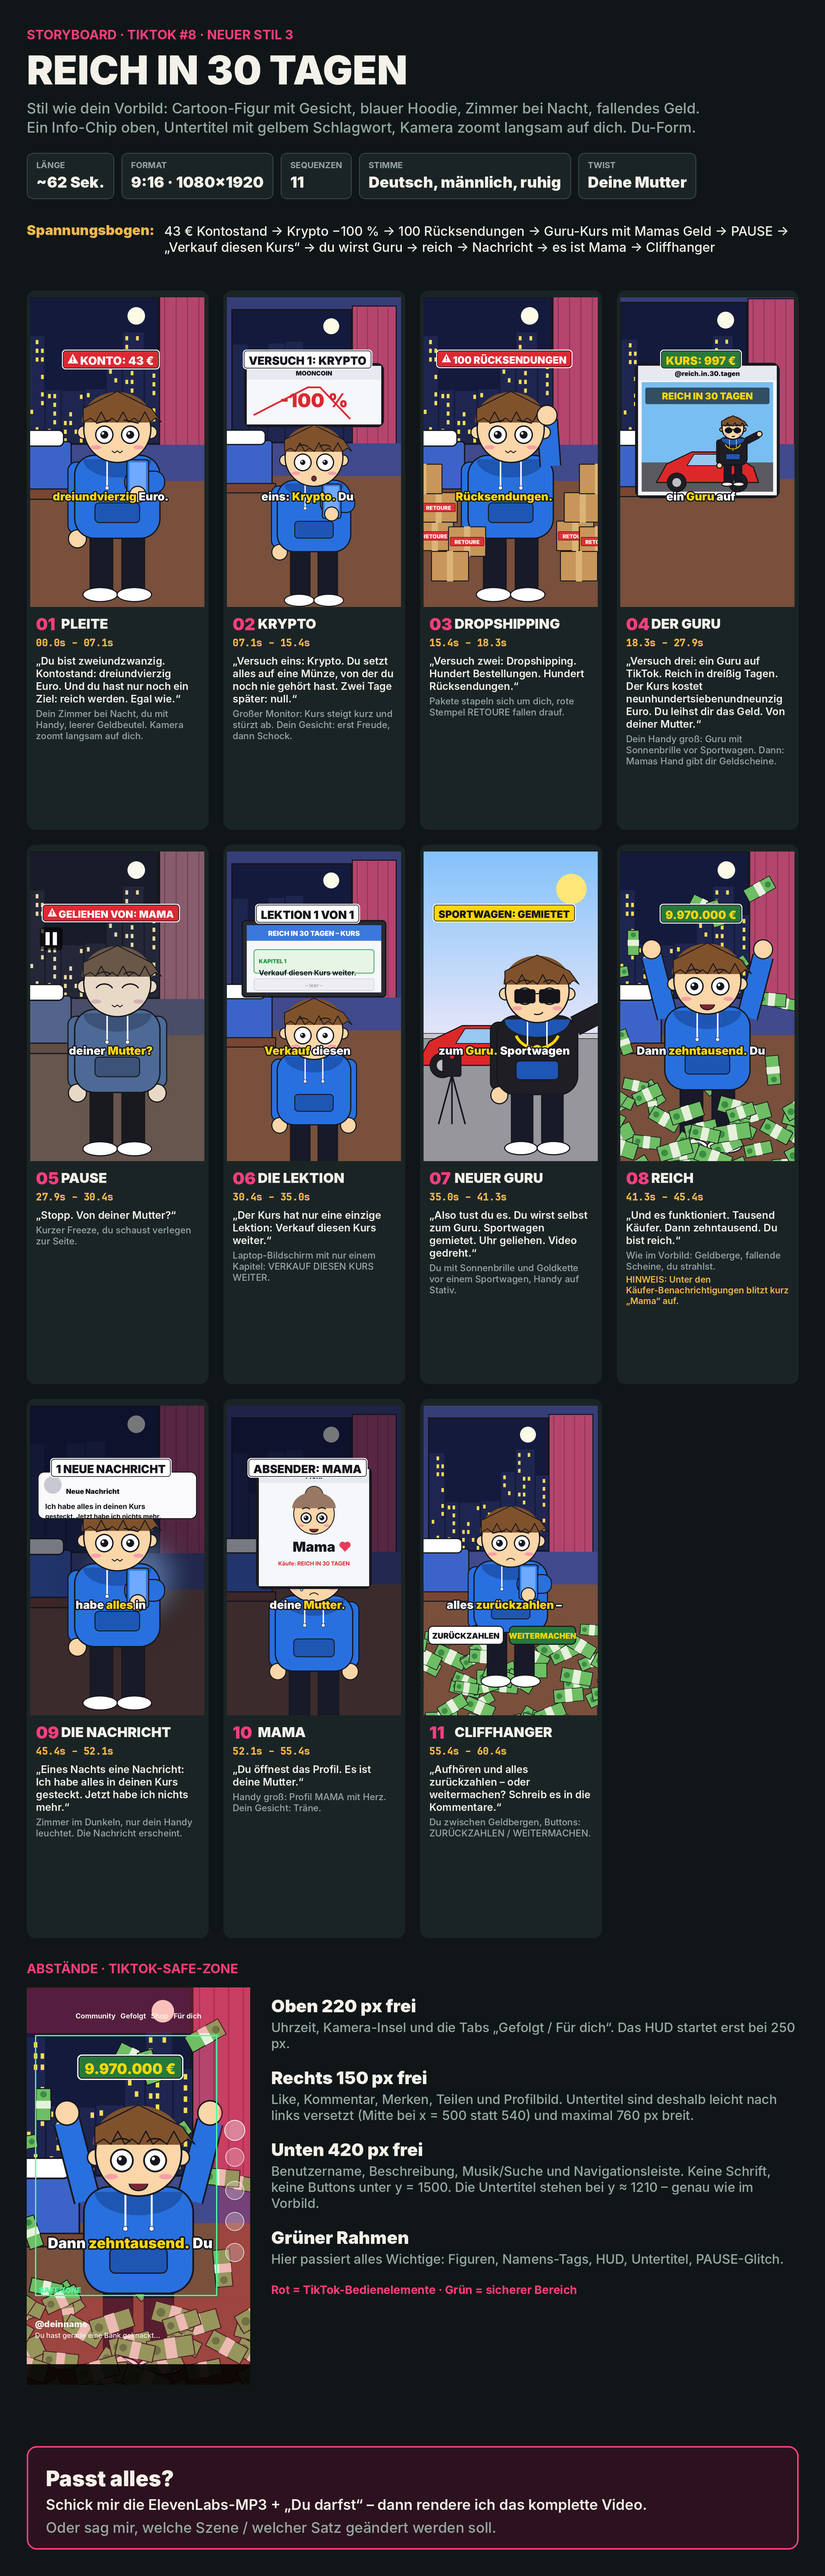
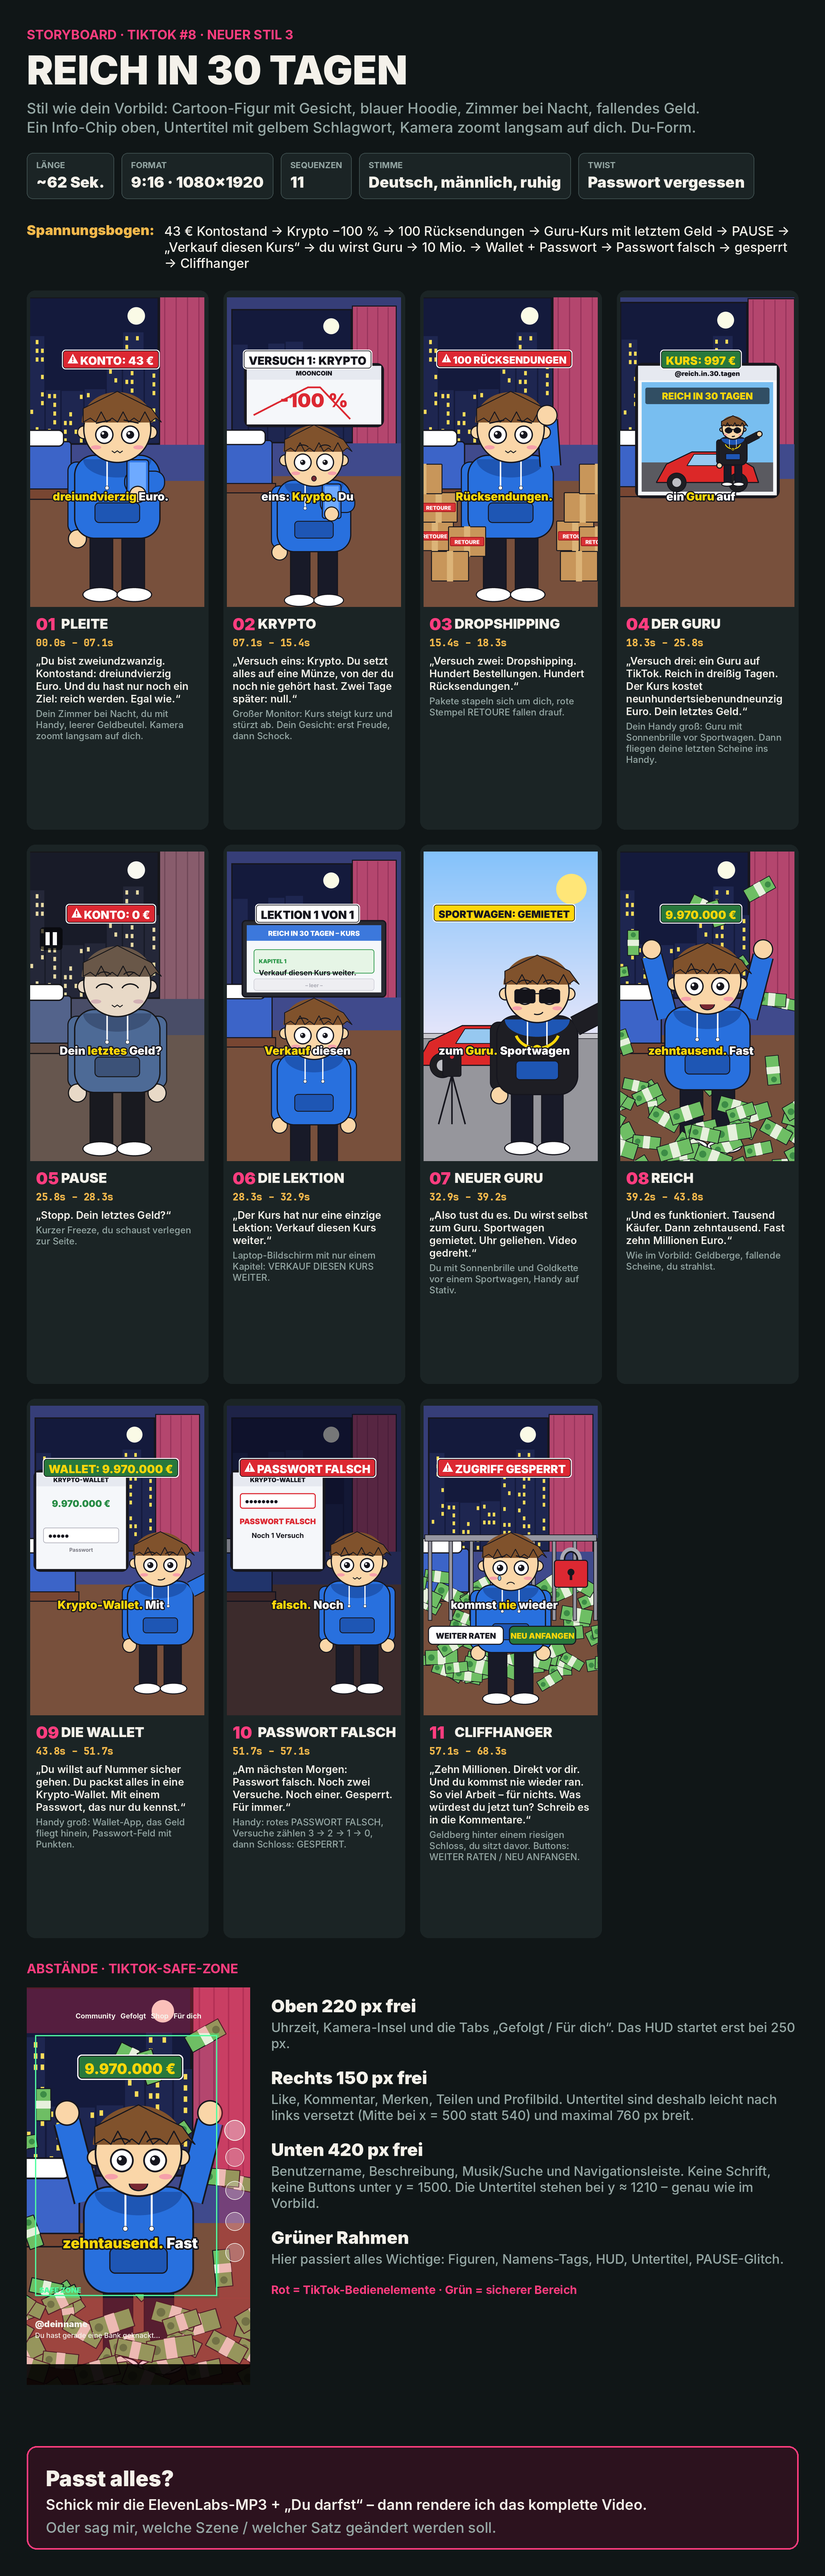
Reich in 30 Tagen: new ending (forgotten wallet password) instead of mother
Claude-Session: https://claude.ai/code/session_01H8VbNop1cYbodEqih19cnK

diff --git a/tiktok/reich/scenes8.py b/tiktok/reich/scenes8.py
@@ -25,13 +25,6 @@ def phone_ui(cv, x0, y0, x1, y1, title=None):
         cv.text(((x0 + x1) / 2, y0 + 56), title, font(36, "Black"), INK, "ms")
 
 
-def mom_avatar(cv, x, y, r):
-    cv.circle(x, y - r * 0.9, r * 0.45, (150, 120, 100), INK, 4)  # bun
-    cv.circle(x, y, r, SKIN, INK, 5)
-    cv.d.chord(cv.s((x - r * 1.05, y - r * 1.05, x + r * 1.05, y + r * 0.5)), 180, 360, fill=(150, 120, 100))
-    T.face(cv, x, y + r * 0.15, r, "happy")
-
-
 def box(cv, x, y, w, h, stamp=False):
     cv.rect((x, y, x + w, y + h), (200, 150, 90), INK, 5, r=6)
     cv.rect((x + w * 0.42, y, x + w * 0.58, y + h), (220, 180, 120))
@@ -98,13 +91,12 @@ def s_guru(cv, t, dur):
         cv.rect((200, 590, 880, 680), (0, 0, 0, 150), r=10)
         cv.text((540, 655), "REICH IN 30 TAGEN", font(52, "Black"), YELLOW, "ms")
     else:
-        T.character(cv, 620, FEET, SCALE, "worry", "down", blink=blink_at(t, dur))
-        k = ease(seg(t, 0.62, 0.8))
-        hx = -120 + 400 * k
-        cv.rect((-200, 980, hx - 40, 1080), (170, 90, 130), INK, 6, r=40)  # mum's sleeve
-        cv.circle(hx, 1030, 50, SKIN, INK, 6)
-        for j in range(3):
-            T.bill(cv, hx + 40 + j * 16, 990 + j * 12, 150, -0.2 + j * 0.1)
+        T.character(cv, CX, FEET, SCALE, "worry", "phone", blink=blink_at(t, dur))
+        k = seg(t, 0.62, 1.0)
+        for j in range(3):  # last bills fly into the phone
+            u = max(0.0, min(1.0, k * 1.6 - j * 0.25))
+            if 0 < u < 1:
+                T.bill(cv, 150 + (680 - 150) * u, 1350 - (1350 - 1020) * u, 150 * (1 - 0.6 * u), u * 3)
 
 
 def s_pause(cv, t, dur):
@@ -156,43 +148,65 @@ def night(cv):
     cv.overlay((10, 12, 30), 140)
 
 
-def s_msg(cv, t, dur):
-    night(cv)
-    cv.glow(CX + 90, 1030, 260, (150, 200, 255), 120)
-    T.character(cv, CX, FEET, SCALE, "worry", "phone", blink=blink_at(t, dur))
-    k = ease(seg(t, 0.15, 0.35))
-    if k > 0:
-        y = 470 + 40 * (1 - k)
-        cv.rect((120, y, 960, y + 250), (250, 250, 252, int(255 * k)), INK, 5, r=34)
-        cv.circle(200, y + 70, 46, (200, 200, 210))
-        cv.text((270, y + 82), "Neue Nachricht", font(36, "Black"), INK)
-        cv.text((160, y + 160), "Ich habe alles in deinen Kurs", font(38, "Bold"), INK)
-        cv.text((160, y + 215), "gesteckt. Jetzt habe ich nichts mehr.", font(34, "Bold"), INK)
+def wallet_phone(cv, x0=70, y0=440, x1=590, y1=1000):
+    phone_ui(cv, x0, y0, x1, y1, "KRYPTO-WALLET")
 
 
-def s_mama(cv, t, dur):
+def lock_icon(cv, x, y, s=1.0, col=(220, 40, 50)):
+    cv.arc((x - 70 * s, y - 150 * s, x + 70 * s, y + 10 * s), 180, 360, INK, int(34 * s))
+    cv.arc((x - 70 * s, y - 150 * s, x + 70 * s, y + 10 * s), 180, 360, (170, 170, 180), int(24 * s))
+    cv.rect((x - 110 * s, y - 70 * s, x + 110 * s, y + 110 * s), col, INK, 6, r=int(20 * s))
+    cv.circle(x, y + 10 * s, 22 * s, INK)
+    cv.rect((x - 8 * s, y + 10 * s, x + 8 * s, y + 60 * s), INK)
+
+
+def s_wallet(cv, t, dur):
+    T.bedroom(cv)
+    T.character(cv, 790, FEET, SCALE * 0.85, "happy" if t < 0.6 else "smug", "point", blink=blink_at(t, dur))
+    wallet_phone(cv)
+    k = ease(seg(t, 0.05, 0.5))
+    cv.text((330, 640), f"{int(9970000 * k):,} €".replace(",", "."), font(54, "Black"), (40, 140, 70), "ms")
+    for j in range(4):  # bills flying into the wallet
+        u = max(0.0, min(1.0, t * 2.2 - j * 0.25))
+        if 0 < u < 1:
+            T.bill(cv, 700 - 380 * u + j * 30, 1300 - 650 * u, 140 * (1 - 0.5 * u), u * 4)
+    if t > 0.55:
+        cv.rect((110, 760, 550, 850), WHITE, (180, 180, 190), 4, r=16)
+        n = min(10, int(seg(t, 0.55, 0.9) * 10) + 1)
+        cv.text((140, 805), "•" * n, font(60, "Black"), INK, "lm")
+        cv.text((330, 900), "Passwort", font(30, "Bold"), (120, 120, 130), "ms")
+
+
+def s_password(cv, t, dur):
     night(cv)
-    T.character(cv, CX, FEET + 200, SCALE, "sad", "down", tear=t > 0.4)
-    phone_ui(cv, 220, 420, 860, 1100, "Profil")
-    k = ease(seg(t, 0.1, 0.4))
-    mom_avatar(cv, 540, 680, 120 * (0.6 + 0.4 * k))
-    cv.text((540, 900), "Mama", font(80, "Black"), INK, "ms")
-    cv.text((540, 980), "Käufe: REICH IN 30 TAGEN", font(32, "Bold"), (220, 40, 50), "ms")
-    cv.circle(706, 860, 18, (230, 60, 90))
-    cv.circle(734, 860, 18, (230, 60, 90))
-    cv.poly([(690, 868), (750, 868), (720, 900)], (230, 60, 90))
+    tries = 3 - min(3, int(t * 4.2))
+    locked = tries == 0
+    T.character(cv, 790, FEET, SCALE * 0.85, "shock" if locked else "worry", "head" if locked else "down", blink=blink_at(t, dur))
+    wallet_phone(cv)
+    if not locked:
+        cv.rect((110, 560, 550, 650), WHITE, (220, 40, 50), 6, r=16)
+        cv.text((140, 605), "•" * 8, font(60, "Black"), INK, "lm")
+        cv.text((330, 740), "PASSWORT FALSCH", font(44, "Black"), (220, 40, 50), "ms")
+        cv.text((330, 820), f"Noch {tries} Versuch" + ("e" if tries != 1 else ""), font(40, "Bold"), INK, "ms")
+    else:
+        lock_icon(cv, 330, 720, 1.1)
+        cv.text((330, 940), "GESPERRT", font(62, "Black"), (220, 40, 50), "ms")
 
 
 def s_final(cv, t, dur):
     T.bedroom(cv)
-    T.money_pile(cv, 1460, seed=5)
-    T.character(cv, CX, FEET - 40, SCALE * 0.95, "sad", "phone", blink=blink_at(t, dur))
-    for (x0, x1), lab, bg, fg in (((60, 500), "ZURÜCKZAHLEN", WHITE, INK), ((530, 920), "WEITERMACHEN", (40, 120, 60), YELLOW)):
+    T.money_pile(cv, 1100, seed=5, n=60)
+    for k in range(9):  # bars of a vault in front of the money
+        cv.rect((60 + k * 120, 820, 84 + k * 120, 1300), (150, 150, 160), INK, 4)
+    cv.rect((40, 800, 1040, 840), (150, 150, 160), INK, 4)
+    lock_icon(cv, 890, 1010, 0.9)
+    T.character(cv, CX, FEET + 60, SCALE * 0.9, "sad", "down", tear=t > 0.3, blink=blink_at(t, dur))
+    for (x0, x1), lab, bg, fg in (((60, 500), "WEITER RATEN", WHITE, INK), ((530, 920), "NEU ANFANGEN", (40, 120, 60), YELLOW)):
         cv.rect((x0, 1330, x1, 1440), bg, INK, 6, r=28)
         cv.text(((x0 + x1) / 2, 1405), lab, font(46, "Black"), fg, "ms")
 
 
-SCENES = [s_broke, s_crypto, s_drop, s_guru, s_pause, s_lesson, s_newguru, s_rich, s_msg, s_mama, s_final]
+SCENES = [s_broke, s_crypto, s_drop, s_guru, s_pause, s_lesson, s_newguru, s_rich, s_wallet, s_password, s_final]
 PAUSE = 4
 FOCUS = {i: (540, 820) for i in range(11)}
 
@@ -202,7 +216,7 @@ def render(i, t=0.5, dur=5.0):
     SCENES[i](cv, t, dur)
     img = cv.final()
     z = 0.04 + 0.14 * ease(t)  # wide -> closer, like the reference
-    if i in (1, 5, 9, 10):  # scenes with screens/buttons: gentle zoom only
+    if i in (1, 5, 8, 9, 10):  # scenes with screens/buttons: gentle zoom only
         z = 0.02 + 0.05 * ease(t)
     img = T.camera(img, z, *FOCUS[i])
     if i == PAUSE:

diff --git a/tiktok/reich/script.py b/tiktok/reich/script.py
@@ -13,33 +13,34 @@ SEQ = [
     dict(name="Dropshipping", vo="Versuch zwei: Dropshipping. Hundert Bestellungen. Hundert Rücksendungen.",
          hi=["Rücksendungen."], chip=("100 RÜCKSENDUNGEN", "red"),
          visual="Pakete stapeln sich um dich, rote Stempel RETOURE fallen drauf.", clue="—"),
-    dict(name="Der Guru", vo="Versuch drei: ein Guru auf TikTok. Reich in dreißig Tagen. Der Kurs kostet neunhundertsiebenundneunzig Euro. Du leihst dir das Geld. Von deiner Mutter.",
-         hi=["Guru", "Mutter."], chip=("KURS: 997 €", "green"),
-         visual="Dein Handy groß: Guru mit Sonnenbrille vor Sportwagen. Dann: Mamas Hand gibt dir Geldscheine.", clue="—"),
-    dict(name="PAUSE", vo="Stopp. Von deiner Mutter?", hi=["Mutter?"], chip=("GELIEHEN VON: MAMA", "red"),
-         visual="Kurzer Freeze, du schaust verlegen zur Seite.", clue="—"),
+    dict(name="Der Guru", vo='Versuch drei: ein Guru auf TikTok. Reich in dreißig Tagen. Der Kurs kostet neunhundertsiebenundneunzig Euro. Dein letztes Geld.',
+         hi=['Guru', 'letztes'], chip=('KURS: 997 €', 'green'),
+         visual='Dein Handy groß: Guru mit Sonnenbrille vor Sportwagen. Dann fliegen deine letzten Scheine ins Handy.', clue="—"),
+    dict(name="PAUSE", vo='Stopp. Dein letztes Geld?',
+         hi=['letztes'], chip=('KONTO: 0 €', 'red'),
+         visual='Kurzer Freeze, du schaust verlegen zur Seite.', clue="—"),
     dict(name="Die Lektion", vo="Der Kurs hat nur eine einzige Lektion: Verkauf diesen Kurs weiter.",
          hi=["Verkauf", "weiter."], chip=("LEKTION 1 VON 1", "white"),
          visual="Laptop-Bildschirm mit nur einem Kapitel: VERKAUF DIESEN KURS WEITER.", clue="—"),
     dict(name="Neuer Guru", vo="Also tust du es. Du wirst selbst zum Guru. Sportwagen gemietet. Uhr geliehen. Video gedreht.",
          hi=["Guru."], chip=("SPORTWAGEN: GEMIETET", "yellow"),
          visual="Du mit Sonnenbrille und Goldkette vor einem Sportwagen, Handy auf Stativ.", clue="—"),
-    dict(name="Reich", vo="Und es funktioniert. Tausend Käufer. Dann zehntausend. Du bist reich.",
-         hi=["zehntausend.", "reich."], chip=("9.970.000 €", "green"),
-         visual="Wie im Vorbild: Geldberge, fallende Scheine, du strahlst.", clue="Unter den Käufer-Benachrichtigungen blitzt kurz „Mama“ auf."),
-    dict(name="Die Nachricht", vo="Eines Nachts eine Nachricht: Ich habe alles in deinen Kurs gesteckt. Jetzt habe ich nichts mehr.",
-         hi=["alles", "nichts"], chip=("1 NEUE NACHRICHT", "white"),
-         visual="Zimmer im Dunkeln, nur dein Handy leuchtet. Die Nachricht erscheint.", clue="—"),
-    dict(name="Mama", vo="Du öffnest das Profil. Es ist deine Mutter.",
-         hi=["Mutter."], chip=("ABSENDER: MAMA", "white"),
-         visual="Handy groß: Profil MAMA mit Herz. Dein Gesicht: Träne.", clue="—"),
-    dict(name="Cliffhanger", vo="Aufhören und alles zurückzahlen – oder weitermachen? Schreib es in die Kommentare.",
-         hi=["zurückzahlen", "weitermachen?"], chip=("", "white"),
-         visual="Du zwischen Geldbergen, Buttons: ZURÜCKZAHLEN / WEITERMACHEN.", clue="—"),
+    dict(name="Reich", vo='Und es funktioniert. Tausend Käufer. Dann zehntausend. Fast zehn Millionen Euro.',
+         hi=['zehntausend.', 'Millionen'], chip=('9.970.000 €', 'green'),
+         visual='Wie im Vorbild: Geldberge, fallende Scheine, du strahlst.', clue="—"),
+    dict(name="Die Wallet", vo='Du willst auf Nummer sicher gehen. Du packst alles in eine Krypto-Wallet. Mit einem Passwort, das nur du kennst.',
+         hi=['Krypto-Wallet.', 'Passwort,'], chip=('WALLET: 9.970.000 €', 'green'),
+         visual='Handy groß: Wallet-App, das Geld fliegt hinein, Passwort-Feld mit Punkten.', clue="—"),
+    dict(name="Passwort falsch", vo='Am nächsten Morgen: Passwort falsch. Noch zwei Versuche. Noch einer. Gesperrt. Für immer.',
+         hi=['falsch.', 'Gesperrt.'], chip=('PASSWORT FALSCH', 'red'),
+         visual='Handy: rotes PASSWORT FALSCH, Versuche zählen 3 → 2 → 1 → 0, dann Schloss: GESPERRT.', clue="—"),
+    dict(name="Cliffhanger", vo='Zehn Millionen. Direkt vor dir. Und du kommst nie wieder ran. So viel Arbeit – für nichts. Was würdest du jetzt tun? Schreib es in die Kommentare.',
+         hi=['nie', 'nichts.', 'tun?'], chip=('ZUGRIFF GESPERRT', 'red'),
+         visual='Geldberg hinter einem riesigen Schloss, du sitzt davor. Buttons: WEITER RATEN / NEU ANFANGEN.', clue="—"),
 ]
 
-CAPTION_TEXT = ("Du wolltest nur reich werden … und dann kam diese Nachricht. 😳💸 Zurückzahlen oder weitermachen? 👇 "
-                "#reichwerden #guru #geld #storytime #duform #geschichte #plottwist #spannung #fürdich #fyp")
+CAPTION_TEXT = ("10 Millionen verdient … und dann das Passwort vergessen. 😭🔒 Was würdest du jetzt tun? 👇 "
+                "#reichwerden #krypto #passwort #storytime #duform #geschichte #plottwist #spannung #fürdich #fyp")
 
 if __name__ == "__main__":
     print(sum(len(s["vo"].split()) for s in SEQ), "Wörter")

diff --git a/tiktok/reich/storyboard.py b/tiktok/reich/storyboard.py
@@ -95,7 +95,7 @@ def main():
     d.text((MARGIN, 310), "Ein Info-Chip oben, Untertitel mit gelbem Schlagwort, Kamera zoomt langsam auf dich. Du-Form.",
            font=S.font(38, "Medium"), fill=MUTED)
     chips = [("LÄNGE", "~62 Sek."), ("FORMAT", "9:16 · 1080×1920"), ("SEQUENZEN", str(len(SEQ))),
-             ("STIMME", "Deutsch, männlich, ruhig"), ("TWIST", "Deine Mutter")]
+             ("STIMME", "Deutsch, männlich, ruhig"), ("TWIST", "Passwort vergessen")]
     x = MARGIN
     for lab, val in chips:
         fv = S.font(40, "Black")
@@ -105,7 +105,7 @@ def main():
         d.text((x + 25, 452), val, font=fv, fill=WHITE)
         x += w + 20
     d.text((MARGIN, 580), "Spannungsbogen:", font=S.font(36, "Black"), fill=GOLD)
-    arc = "43 € Kontostand  →  Krypto −100 %  →  100 Rücksendungen  →  Guru-Kurs mit Mamas Geld  →  PAUSE  →  „Verkauf diesen Kurs“  →  du wirst Guru  →  reich  →  Nachricht  →  es ist Mama  →  Cliffhanger"
+    arc = "43 € Kontostand  →  Krypto −100 %  →  100 Rücksendungen  →  Guru-Kurs mit letztem Geld  →  PAUSE  →  „Verkauf diesen Kurs“  →  du wirst Guru  →  10 Mio.  →  Wallet + Passwort  →  Passwort falsch → gesperrt  →  Cliffhanger"
     wrap(d, (MARGIN + 360, 584), arc, S.font(34, "Medium"), WHITE, PW - 2 * MARGIN - 360)
 
     # ---------- grid

diff --git a/tiktok/reich/ELEVENLABS.md b/tiktok/reich/ELEVENLABS.md
@@ -1,8 +1,8 @@
-# REICH IN 30 TAGEN – alles für ElevenLabs
+# REICH IN 30 TAGEN – alles für ElevenLabs (neues Ende: Passwort vergessen)
 
 **Stimme:** Helmut – German Epic Trailer Voice · **Modell:** eleven v4 (wie bisher)
 **Einstellungen:** Stability ~45 % · Similarity ~75 % · Style ~20 % · Speed 1.0
-**Ziel-Länge:** 60–68 Sekunden
+**Ziel-Länge:** 60–70 Sekunden
 
 ## Text (komplett kopieren, Absätze mitkopieren)
 
@@ -13,24 +13,24 @@ Versuch eins: Krypto. Du setzt alles auf eine Münze, von der du noch nie gehör
 
 Versuch zwei: Dropshipping. Hundert Bestellungen. Hundert Rücksendungen.
 
-Versuch drei: ein Guru auf TikTok. Reich in dreißig Tagen. Der Kurs kostet neunhundertsiebenundneunzig Euro. Du leihst dir das Geld. Von deiner Mutter.
+Versuch drei: ein Guru auf TikTok. Reich in dreißig Tagen. Der Kurs kostet neunhundertsiebenundneunzig Euro. Dein letztes Geld.
 
-Stopp. Von deiner Mutter?
+Stopp. Dein letztes Geld?
 
 Der Kurs hat nur eine einzige Lektion: Verkauf diesen Kurs weiter.
 
 Also tust du es. Du wirst selbst zum Guru. Sportwagen gemietet. Uhr geliehen. Video gedreht.
 
-Und es funktioniert. Tausend Käufer. Dann zehntausend. Du bist reich.
+Und es funktioniert. Tausend Käufer. Dann zehntausend. Fast zehn Millionen Euro.
 
-Eines Nachts eine Nachricht: Ich habe alles in deinen Kurs gesteckt. Jetzt habe ich nichts mehr.
+Du willst auf Nummer sicher gehen. Du packst alles in eine Krypto-Wallet. Mit einem Passwort, das nur du kennst.
 
-Du öffnest das Profil. Es ist deine Mutter.
+Am nächsten Morgen: Passwort falsch. Noch zwei Versuche. Noch einer. Gesperrt. Für immer.
 
-Aufhören und alles zurückzahlen – oder weitermachen? Schreib es in die Kommentare.
+Zehn Millionen. Direkt vor dir. Und du kommst nie wieder ran. So viel Arbeit – für nichts. Was würdest du jetzt tun? Schreib es in die Kommentare.
 ```
 
 ## Anhören – darauf achten
 - „neunhundertsiebenundneunzig Euro“ flüssig
-- „Von deiner Mutter.“ mit kurzer Pause davor
-- „Es ist deine Mutter.“ langsam und ruhig
+- „Noch zwei Versuche. Noch einer. Gesperrt.“ mit kleinen Pausen dazwischen
+- „So viel Arbeit – für nichts.“ langsam und enttäuscht
